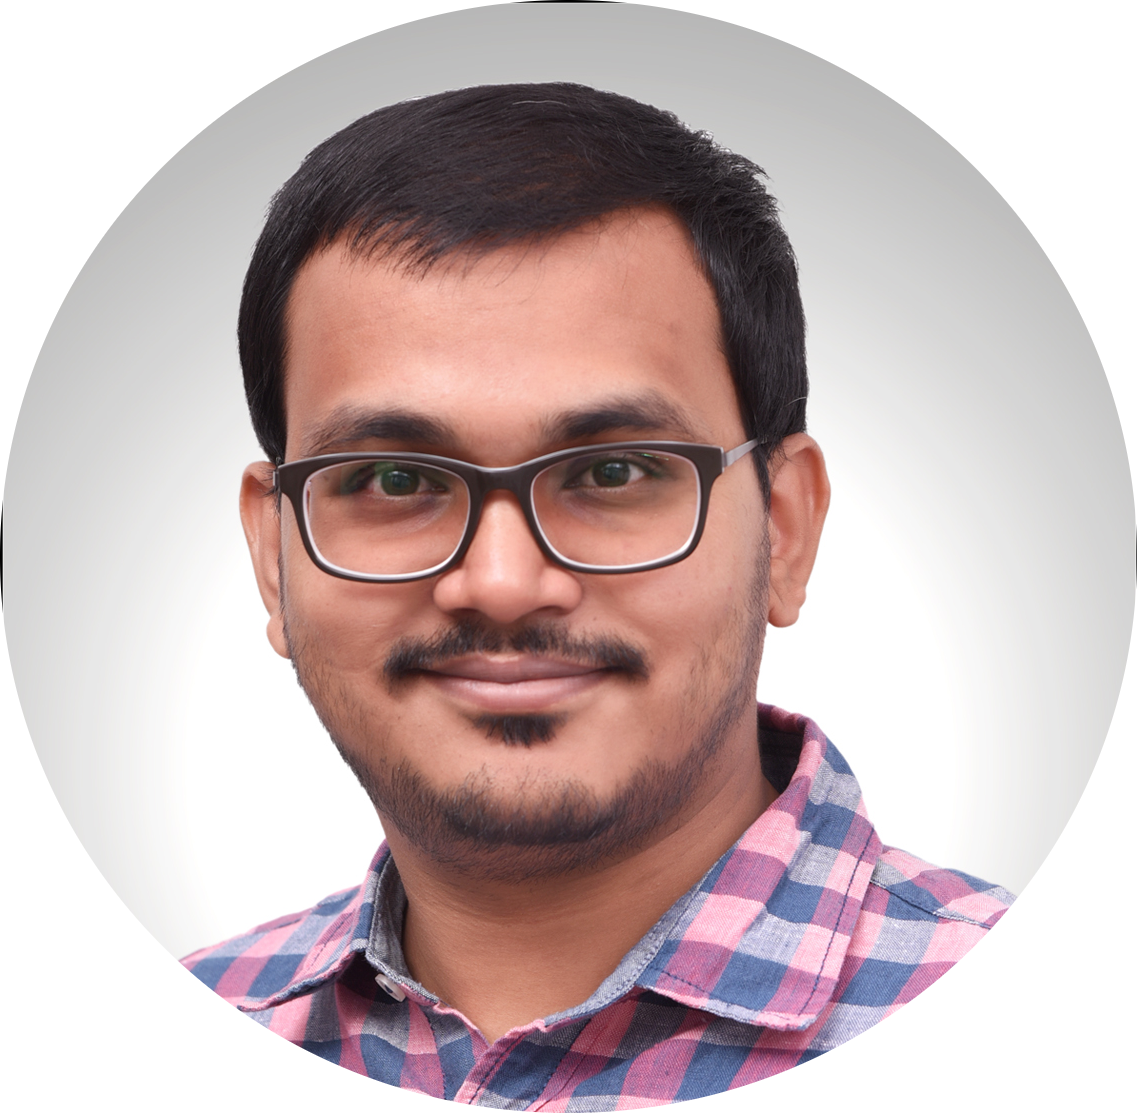
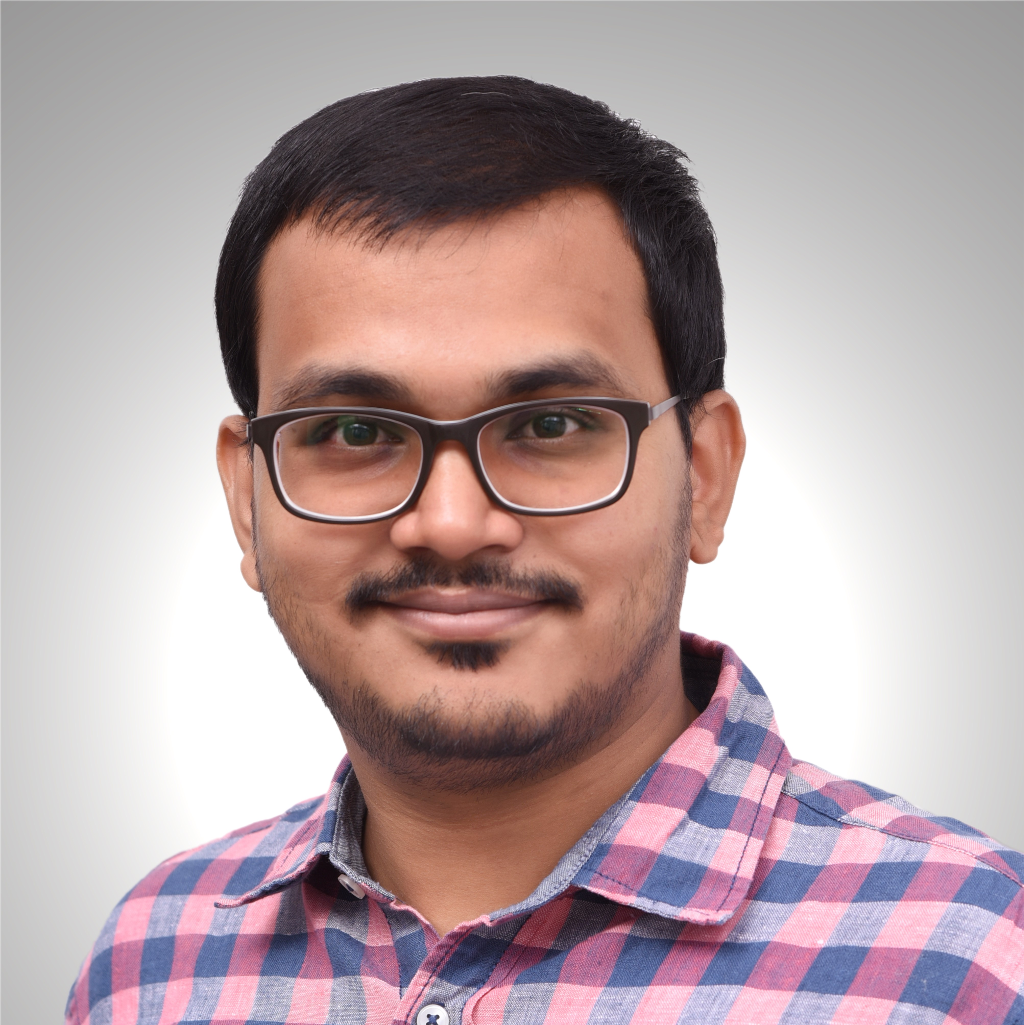
Added support for circular images using border-radius

diff --git a/themes/osprey/layouts/partials/team.html b/themes/osprey/layouts/partials/team.html
@@ -20,7 +20,9 @@
                 <div class="col-xs-12 col-md-3" {{ if .Params.color }}style="background-color:{{ .Params.color }}" {{ end }}>
                     <div class="row middle-xs center-xs">    
                             <a href="{{ .Params.linkedin}}">
-                                <img src="/images/{{ .Params.image}}" {{ if .Params.alt }}alt="{{ .Params.alt }}" {{ end }}  width="200px" height="200px"/>
+                                <img src="/images/{{ .Params.image}}" {{ if .Params.alt }}alt="{{ .Params.alt }}" {{ end }}  
+                                width="200px" height="200px"
+                                style="border-radius: 50% 50%"/>
                             </a>    
                         </div>
                         <div class="row middle-xs center-xs">
@@ -46,8 +48,10 @@
                 {{ range first 3 $teamReverse }}
                 <div class="col-xs-12 col-md-4" {{ if .Params.color }}style="background-color:{{ .Params.color }}" {{ end }}>
                     <div class="row middle-xs center-xs">    
-                            <a href="{{ .Params.linkedin}}">
-                                <img src="/images/{{ .Params.image}}" {{ if .Params.alt }}alt="{{ .Params.alt }}" {{ end }}  width="200px" height="200px"/>
+                            <a href="{{ .Params.linkedin}}">                                
+                                <img src="/images/{{ .Params.image}}" {{ if .Params.alt }}alt="{{ .Params.alt }}" {{ end }}  
+                                width="200px" height="200px"
+                                style="border-radius: 50% 50%"/>
                             </a>    
                         </div>
                         <div class="row middle-xs center-xs">
@@ -80,8 +84,10 @@
                                 {{ end }}
                             {{ end }}" {{ if .Params.color }}style="background-color:{{ .Params.color }}" {{ end }}>
                         <div class="row middle-xs center-xs">    
-                            <a href="{{ .Params.linkedin}}">
-                                <img src="/images/{{ .Params.image}}" {{ if .Params.alt }}alt="{{ .Params.alt }}" {{ end }}  width="200px" height="200px"/>
+                            <a href="{{ .Params.linkedin}}">                               
+                                <img src="/images/{{ .Params.image}}" {{ if .Params.alt }}alt="{{ .Params.alt }}" {{ end }}  
+                                width="200px" height="200px"
+                                style="border-radius: 50% 50%"/>
                             </a>    
                         </div>
                         <div class="row middle-xs center-xs">
@@ -117,8 +123,10 @@
                         {{ end }}
                     {{ end }}" {{ if .Params.color }}style="background-color:{{ .Params.color }}" {{ end }}>
                     <div class="row middle-xs center-xs">    
-                        <a href="{{ .Params.linkedin}}">
-                            <img src="/images/{{ .Params.image}}" {{ if .Params.alt }}alt="{{ .Params.alt }}" {{ end }}  width="200px" height="200px"/>
+                        <a href="{{ .Params.linkedin}}">                               
+                            <img src="/images/{{ .Params.image}}" {{ if .Params.alt }}alt="{{ .Params.alt }}" {{ end }}  
+                            width="200px" height="200px"
+                            style="border-radius: 50% 50%"/>
                         </a>    
                     </div>
                     <div class="row middle-xs center-xs">
